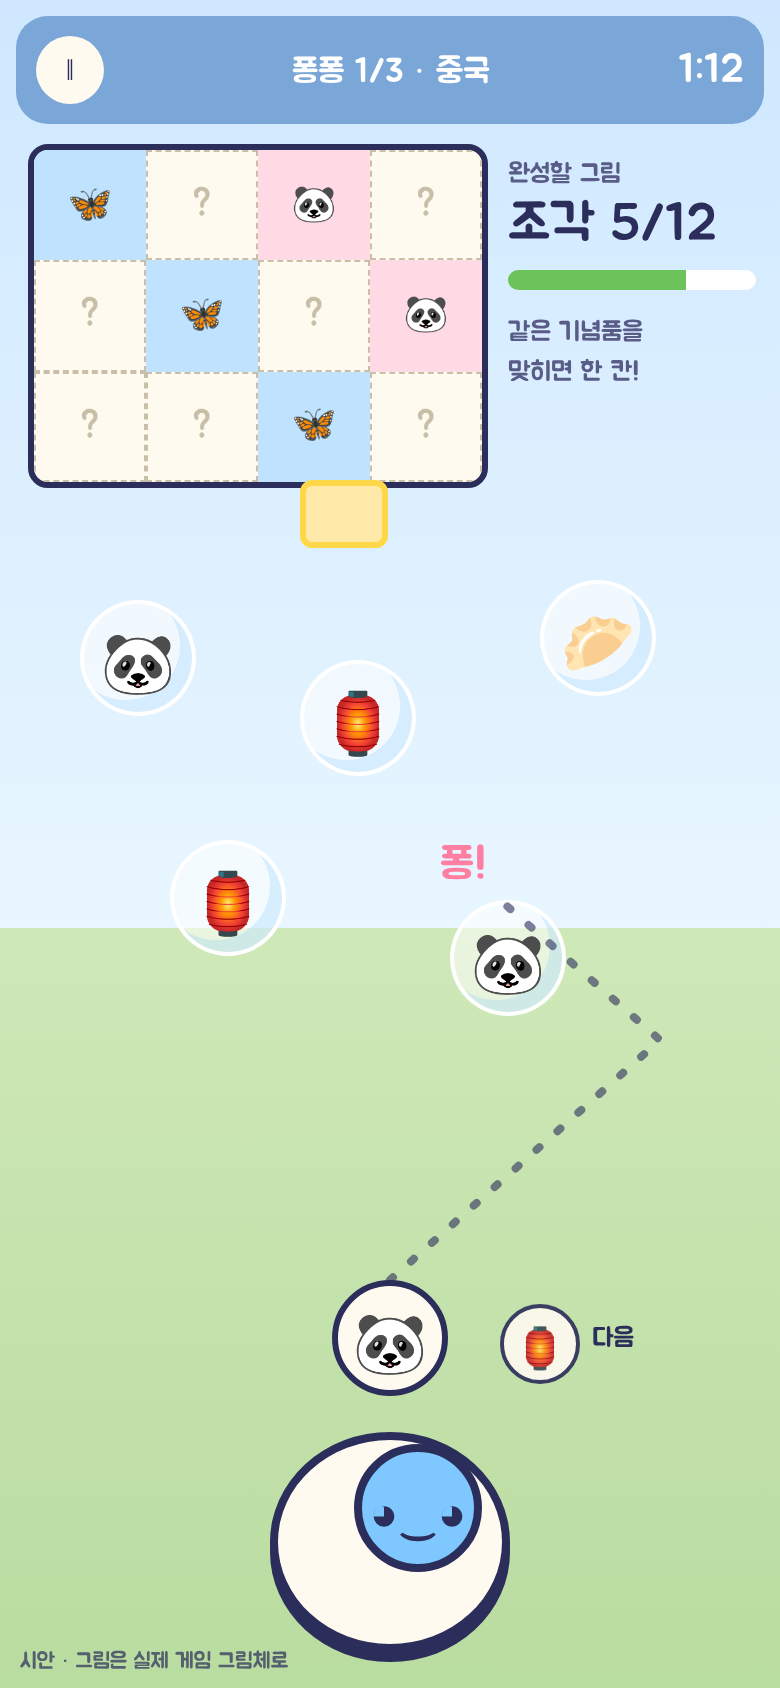
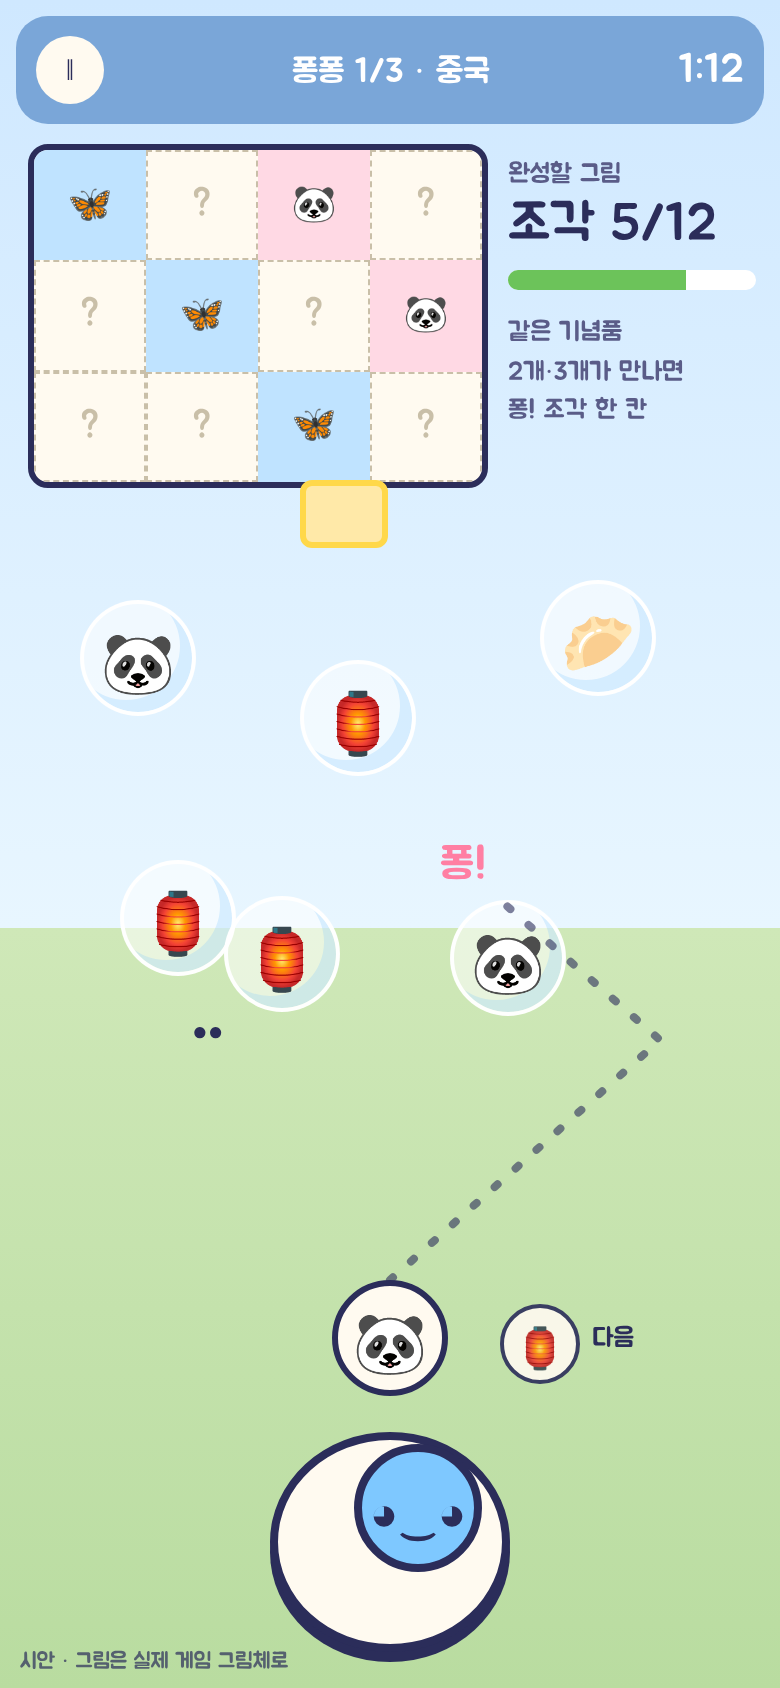
21절 고침: 같은 기념품 2개(1판)·3개(2·3판) 모이면 조각 한 개
Claude-Session: https://claude.ai/code/session_01TkNv9721uSkR9vMBe25YwV

Changed region(s): [[0.1538, 0.4929, 0.4308, 0.6161], [0.6462, 0.1848, 0.8615, 0.2464]]

diff --git a/docs/presentation/brief21-mock.html b/docs/presentation/brief21-mock.html
@@ -25,9 +25,9 @@ body{width:390px;height:844px;overflow:hidden;font-family:Gowun;color:#2b2d5a;ba
 </style></head><body>
 <div class="hud"><div class="p">‖</div><div class="t">퐁퐁 1/3 · 중국</div><div class="tm">1:12</div></div>
 <div class="pic" id="pic"></div>
-<div class="side"><div class="k">완성할 그림</div><div class="n">조각 5/12</div><div class="bar"><i></i></div><div class="k" style="line-height:1.5">같은 기념품을<br>맞히면 한 칸!</div></div>
+<div class="side"><div class="k">완성할 그림</div><div class="n">조각 5/12</div><div class="bar"><i></i></div><div class="k" style="line-height:1.5">같은 기념품<br>2개·3개가 만나면<br>퐁! 조각 한 칸</div></div>
 <div class="b" style="left:40px;top:300px">🐼</div><div class="b" style="left:150px;top:330px">🏮</div><div class="b" style="left:270px;top:290px">🥟</div>
-<div class="b" style="left:85px;top:420px">🏮</div><div class="b" style="left:225px;top:450px">🐼</div>
+<div class="b" style="left:60px;top:430px">🏮</div><div class="b" style="left:112px;top:448px">🏮</div><div style="position:absolute;left:96px;top:508px;font-family:Jua;font-size:13px">●●</div><div class="b" style="left:225px;top:450px">🐼</div>
 <div class="pop" style="left:220px;top:418px">퐁!</div><div class="fly"></div>
 <svg class="guide" width="390" height="844"><path d="M195 640 L330 520 L250 450" fill="none" stroke="#2b2d5a" stroke-width="4" stroke-dasharray="2 12" stroke-linecap="round" opacity=".6"/></svg>
 <div class="ball">🐼</div><div class="next">🏮</div><span>다음</span>

diff --git a/docs/design-brief.md b/docs/design-brief.md
@@ -568,6 +568,7 @@
 
 > 사용자: "기념품퐁퐁게임을 퐁퐁게임으로 제목을 수정하고 터치로 귀여운 조이스틱을 움직여서 공을 내려오는 같은 기념품에 맞춰서 하나하나 조각이 되어서 그림이 되어가는 게임으로 수정해"
 > 답: **공을 쏘아 맞히기** / 완성되는 그림은 **블루나비·포포 그림** / 다른 기념품을 맞히면 **시간 조금 줄기** / 혼자·둘이서·각자 폰 **모두 새 방식**(망치·폭죽·미션·구름 같은 옛 규칙은 뺌)
+> 고친 뒤(2026-11-17): "같은 기념품 2개·3개가 만나면 그림 조각이 한 개씩 완성되어 전체 퍼즐 그림이 완성되게" → 답: **1판 2개 · 2·3판 3개** 모이면 퐁 → 조각 1개 / 쏜 공은 **맞히면 바로 터지기**(다른 그림이면 튕기고 -3초)
 
 ### 1) 무엇이 바뀌나
 - 이름: **기념품 퐁퐁 → 퐁퐁** (홈 [같이 하기] 아래 글·같이 하기 돌·퐁퐁 화면 제목·대결장 글·결과 창 모두).
@@ -592,9 +593,11 @@
 ```
 - **조이스틱**: 아래 가운데 둥근 받침 + 손잡이(1탄 블루나비 얼굴 공·2탄 포포 발바닥 공). 손잡이를 끌면 그 방향으로 **겨눈 길 점선**이 보이고(왼쪽·오른쪽 벽에서 한 번 튕기는 길까지), **손을 떼면 공이 퐁 날아감**. 살짝만 끌었다 떼면 쏘지 않음(실수 방지). 엄지 하나로 됨.
 - **공**: 발사대의 공에는 기념품 그림이 하나 그려져 있다(지금 화면에 내려오는 기념품 중에서 고름 → 언제나 맞힐 수 있음). 옆에 **다음 공**이 미리 보임. 공은 벽에서 튕겨 위로 날아가고, 아무것도 안 맞으면 위로 사라짐(벌 없음).
-- **같은 기념품을 맞히면**: "퐁!" 비눗방울이 터지고, **그림 조각 하나**가 맞힌 자리에서 위 그림 판으로 날아가 빈칸에 쏙 끼워짐(딩동). 조각은 빈칸 중 하나에 무작위로.
-- **다른 기념품을 맞히면**: 공이 통 튕겨 나가고 기념품은 그대로, **남은 시간 -3초**("-3초"가 작게 떠오름, 낮은 '뿅' 소리). 놀리거나 깨지는 표현 없음.
-- 기념품은 비눗방울에 싸여 위에서 천천히 내려오다(좌우로 살랑) 아래 선에 닿으면 뽁 하고 사라짐(벌 없음) — 위에서 새로 계속 나옴.
+- **같은 기념품이 모이면 조각 하나**: 공(기념품 그림)이 같은 그림 기념품 무리에 맞으면 그 무리에 **붙어서 개수가 하나 늘고**, 같은 그림이 **1판 2개 · 2·3판 3개** 모이는 순간 "퐁!" 다 함께 터지며 **그림 조각 하나**가 그 자리에서 위 그림 판으로 날아가 빈칸에 쏙 끼워짐(딩동). 조각은 빈칸 중 하나에 무작위로.
+  - 1판: 하나짜리 기념품에 같은 공을 맞히면 2개 → 바로 퐁.
+  - 2·3판: 기념품이 하나짜리·둘짜리 무리로 내려옴. 둘짜리에 같은 공 → 3개 퐁. 하나짜리에 같은 공 → 둘이 붙은 무리가 되어 계속 내려옴(한 번 더 맞히면 퐁). 무리 안 개수는 작은 숫자 점으로 보임(●● / ●●●).
+- **다른 그림 기념품을 맞히면**: 공이 통 튕겨 나가고 기념품은 그대로, **남은 시간 -3초**("-3초"가 작게 떠오름, 낮은 '뿅' 소리). 놀리거나 깨지는 표현 없음.
+- 기념품(무리)은 비눗방울에 싸여 위에서 천천히 내려오다(좌우로 살랑) 아래 선에 닿으면 뽁 하고 사라짐(벌 없음, 붙여 둔 공도 같이) — 위에서 새로 계속 나옴. 발사대의 공 그림은 지금 떠 있는 기념품 중에서 고름(언제나 맞힐 곳이 있음).
 - **그림을 다 채우면**: 마지막 조각이 들어가며 반짝 → 완성된 그림이 크게 떠오름 "블루나비, 중국에서 찰칵!" → 결과 창(걸린 시간·새 기록, [다음 나라로] [다시 하기] [홈으로]).
 - **시간이 다 되면**(게임오버 없음): "아깝다! 다시 도전?" — 채운 조각까지 보여 주고 [다시 도전] [나가기].
 - **가로 화면**: 왼쪽 칸 = 완성할 그림(크게)·시간, 가운데 = 기념품 하늘과 발사대, 오른쪽 아래 = 조이스틱(오른손 엄지).
@@ -609,6 +612,8 @@
 | | 1판 | 2판 | 3판 |
 |---|---|---|---|
 | 조각 | 12 | 16 | 20 |
+| 퐁 하려면 같은 그림 | **2개** | **3개** | **3개** |
+| 내려오는 무리 | 하나짜리 | 하나·둘짜리 | 하나·둘짜리 |
 | 기념품 종류 | 3 | 4 | 5 |
 | 한 번에 떠 있는 기념품 | 5 | 6 | 7 |
 | 내려오는 빠르기(화면 끝까지) | 14초 | 11초 | 9초 |
@@ -623,7 +628,7 @@
 - 빠지는 것: 나무망치·폭죽·나라 미션·구름 블록·묶음 돌리기·꾹 누르기·한 화면 둘이서.
 
 ### 6) 만드는 순서(승인 뒤)
-1. 조이스틱·발사대·공(튕김·겨눈 길)·내려오는 기념품·맞힘/틀림 → 혼자 1판(중국) 화면 확인
+1. 조이스틱·발사대·공(튕김·겨눈 길)·내려오는 기념품 무리·붙기/모이면 퐁/틀림 → 혼자 1판(중국) 화면 확인
 2. 그림 판(조각 굽기·날아가 끼우기·완성 연출) + 1탄·2탄 6판 그림
 3. 결과 창·흐름·이름 바꾸기(퐁퐁)·2명 번갈아·각자 폰 대결 링크·옛 링크 안내
 4. 세로·가로·손가락 끌기 시험, 6판 끝까지 자동 완주 → 미리보기 주소. (배너·리플렛·발표 자료의 "기념품 퐁퐁" 설명은 다 만든 뒤 사용자 확인 후)

diff --git a/CLAUDE.md b/CLAUDE.md
@@ -244,7 +244,7 @@
 | 2026-11-15 | **작은 돌 하나하나 연결되는 징검다리로 1탄 중국·일본, 2탄 봄·여름 이런 식으로 나눠지게** | v3.17.0: 고르기 화면의 "어디서?" 칸(글자 칩 3×3)을 연못 위 징검다리 두 줄로 — 1탄 세계여행 길·2탄 사계절 서울 길, 돌마다 나라·계절 이름, 돌 사이를 작은 조약돌이 이음, 톡 하면 골라지고 고른 돌에 블루나비·포포가 올라섬. 세로·가로·손가락 톡(잠긴 돌은 안 골라짐) 확인 |
 | 2026-11-15 | 홈(지구본에서 들어가는 화면)도 **여행 출발·여행 중**으로, **같이 하기 밑 [홈으로] 칸 없애** | v3.17.0: 홈 1탄·2탄 버튼 아래 글 "처음부터" → "여행 출발", "이어하기 · N단계 나라" → "여행 중 · N단계 나라"(`TitleScene` `progressLabel`, 다 깼으면 "여행 끝! 엔딩 보기" 그대로), 같이 하기 버튼 아래 "혼자 · 2명 · 미로 / 기념품 퐁퐁". 같이 하기 아래는 [대결함] 하나만(홈은 왼쪽 위 [◀ 홈]) |
 | 2026-11-15 | 퐁퐁게임 중 **같이 하기에서 3명 모드 빼고**, **미로 여행·기념품 퐁퐁을 징검다리 그림을 터치해서 들어가게** | 답: 같이 하기 전체에서 3명 뺌 / 돌을 톡 하면 바로 들어가기 — v3.17.0: 같이 하기 첫 화면 = 연못 위 징검다리(큰 돌 미로 여행·기념품 퐁퐁 + 작은 돌 길, 살랑 떠 있음), 돌 톡 → 그 놀이 고르기 화면(어디서·어떻게·시작). 몇 명? 혼자·2명만. 옛 3명 링크는 계속 열림. 세로·가로·손가락 톡 시험 |
-| 2026-11-17 | **기념품 퐁퐁을 「퐁퐁」으로 이름 바꾸고, 터치로 귀여운 조이스틱을 움직여 공을 쏘아 내려오는 같은 기념품을 맞히면 조각이 하나씩 그림이 되어 가는 게임으로** | 답: 공을 쏘아 맞히기 / 완성 그림 = 블루나비·포포 그림 / 다른 기념품 맞히면 시간 -3초 / 혼자·2명 한 폰(번갈아)·각자 폰 모두 새 방식(망치·폭죽·미션·구름 뺌). 기획안 `docs/design-brief.md` 21절 + 시안 `docs/presentation/brief21-mock.png` — **승인 대기** |
+| 2026-11-17 | **기념품 퐁퐁을 「퐁퐁」으로 이름 바꾸고, 터치로 귀여운 조이스틱을 움직여 공을 쏘아 내려오는 같은 기념품을 맞히면 조각이 하나씩 그림이 되어 가는 게임으로** | 답: 공을 쏘아 맞히기 / 완성 그림 = 블루나비·포포 그림 / 다른 기념품 맞히면 시간 -3초 / 혼자·2명 한 폰(번갈아)·각자 폰 모두 새 방식(망치·폭죽·미션·구름 뺌). 기획안 `docs/design-brief.md` 21절 + 시안 `docs/presentation/brief21-mock.png`. 이어서 "같은 기념품 2개·3개가 만나면 조각 한 개씩" → 답: 1판 2개·2·3판 3개 / 맞히면 바로 터지기(같은 그림은 무리에 붙어 개수가 차면 퐁, 다른 그림은 튕기고 -3초) — **승인 대기** |
 | 2026-11-16 | (41×23mm 그림을 받고) **크기에 맞춘 이미지 만들어** | 작은 크기에서도 보이게 새로 꾸민 그림으로 `canada-41x23mm-300dpi`·`-600dpi`(.png/.jpg)를 바꿈: 게임 화면 통째(빈 띠·작은 글자) 대신 위 파란 띠 "1탄 3단계 · 캐나다 / 다른 곳 9개를 찾아요!"(큰 글자) + 아래 캐나다 두 그림(찾은 곳 동그라미 2개)이 꽉 차게. 원본 `docs/presentation/leaflet/canada-41x23mm.html`(1420×797) + `canada-spot-A.png`·`-B.png` |
 | 2026-11-16 | **41×23mm 크기로 이미지만 만들어** | 캐나다 틀린그림 그림 파일만, 인쇄 크기 41×23mm에 맞춰: `docs/presentation/leaflet/canada-41x23mm-300dpi.png/.jpg`(484×272)·`canada-41x23mm-600dpi.png/.jpg`(969×543). 해상도 정보를 넣어 워드·한글에 넣으면 41×23mm로 들어감. 원본 `canada-41x23.png`(1283×720)는 그대로 |
 | 2026-11-16 | **배너에도 캐나다 그림 넣어서 다시 만들어** | `banner.html` 메인 그림: 세로 폰 화면(미국) 대신 캐나다 틀린그림 가로 화면(`../leaflet/canada-41x23.png`, 340×191px = 41:23)을 위에, 아래 가운데 "1탄 3단계 · 캐나다 / 두 그림에서 다른 곳 9개를 톡!", 양옆에 블루나비·포포. `banner.png`·`@2x` 다시 뽑음(400×1200) |
